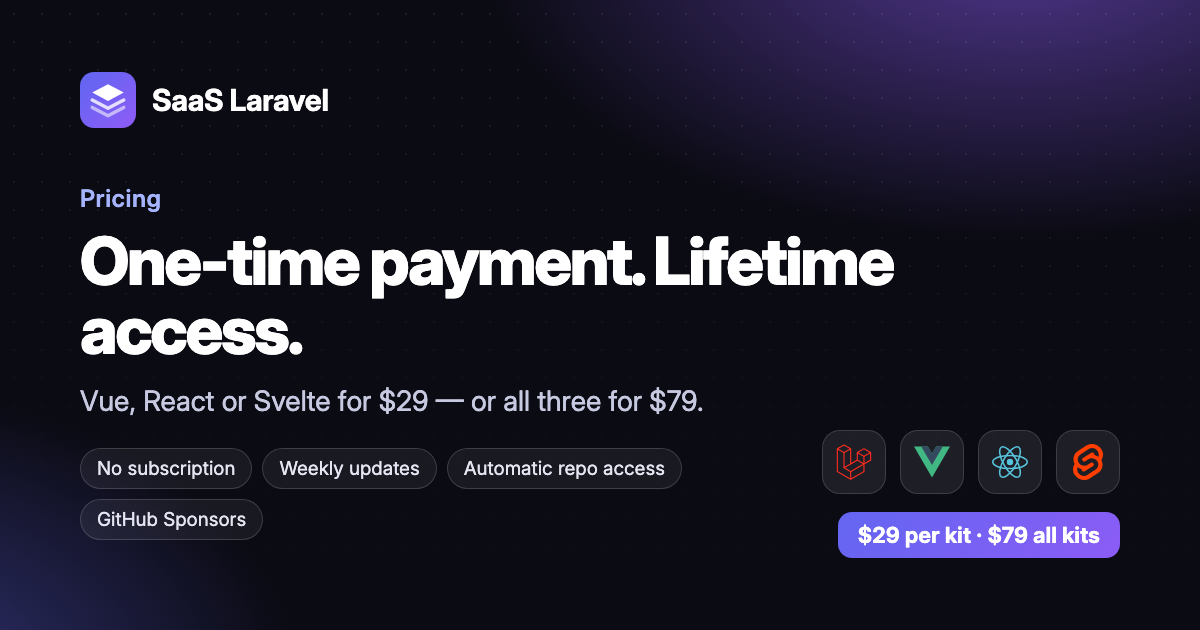
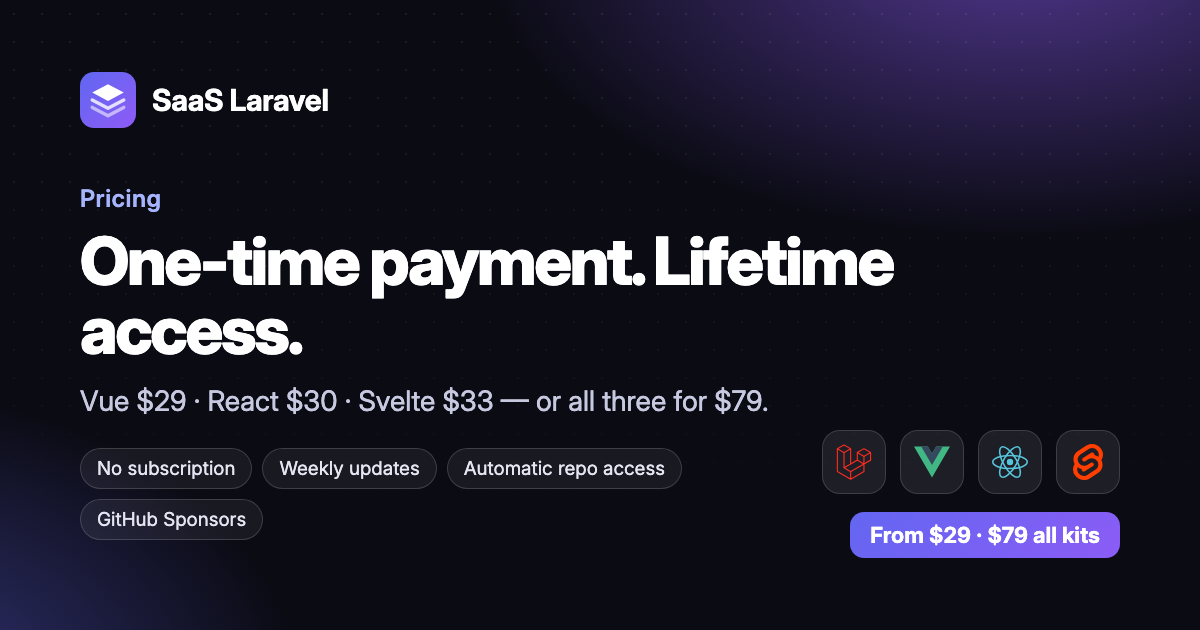
Update starter kit prices to match GitHub Sponsors tiers
Vue $29, React $30, Svelte $33 and all three for $79 (save $13).

Changed region(s): [[0.0925, 0.6032, 0.6475, 0.6635], [0.6783, 0.8143, 0.8017, 0.8746]]

diff --git a/.vitepress/site.ts b/.vitepress/site.ts
@@ -35,6 +35,12 @@ export interface Plan {
 
 const githubOwner = 'https://github.com/erag-technologies';
 
+export const prices = { vue: 29, react: 30, svelte: 33, bundle: 79 } as const;
+
+export const bundleSavings = prices.vue + prices.react + prices.svelte - prices.bundle;
+
+export const kitPriceList = `Vue $${prices.vue}, React $${prices.react} or Svelte $${prices.svelte}`;
+
 export const site = {
   name: 'SaaS Laravel',
   url: 'https://saas-laravel.com',
@@ -45,8 +51,8 @@ export const site = {
   sponsorUrl: 'https://github.com/sponsors/eramitgupta',
   githubProfile: githubOwner,
   docsEditPattern: `${githubOwner}/laravel-saas-starter-kit-docs/edit/main/:path`,
-  bundlePrice: 79,
-  kitPrice: 29,
+  bundlePrice: prices.bundle,
+  kitPriceFrom: Math.min(prices.vue, prices.react, prices.svelte),
   paymentNote: 'One-time payment · Lifetime access · Weekly updates included · No recurring subscription',
   accessNote: 'Lifetime access with weekly updates.',
 };
@@ -70,7 +76,7 @@ export const kits: Record<FrameworkKey, Kit> = {
     key: 'vue',
     name: 'Vue',
     title: 'Vue Starter Kit',
-    price: 29,
+    price: prices.vue,
     repo: `${githubOwner}/saas-laravel-starter-kit-vue`,
     repoName: 'saas-laravel-starter-kit-vue',
     tagline: 'Vue 3.5 with <script setup>, TypeScript and shadcn-vue.',
@@ -97,7 +103,7 @@ export const kits: Record<FrameworkKey, Kit> = {
     key: 'react',
     name: 'React',
     title: 'React Starter Kit',
-    price: 29,
+    price: prices.react,
     repo: `${githubOwner}/saas-laravel-starter-kit-react`,
     repoName: 'saas-laravel-starter-kit-react',
     tagline: 'React 19 with TypeScript and shadcn/ui on Radix UI.',
@@ -124,7 +130,7 @@ export const kits: Record<FrameworkKey, Kit> = {
     key: 'svelte',
     name: 'Svelte',
     title: 'Svelte Starter Kit',
-    price: 29,
+    price: prices.svelte,
     repo: `${githubOwner}/saas-laravel-starter-kit-svelte`,
     repoName: 'saas-laravel-starter-kit-svelte',
     tagline: 'Svelte 5 runes with TypeScript and shadcn-svelte.',
@@ -155,7 +161,7 @@ export const plans: Record<PlanKey, Plan> = {
   vue: {
     key: 'vue',
     name: 'Vue Starter Kit',
-    price: 29,
+    price: prices.vue,
     href: '/pricing/vue.html',
     frameworks: ['vue'],
     tagline: 'Laravel SaaS backend + Vue 3.5 frontend.',
@@ -165,7 +171,7 @@ export const plans: Record<PlanKey, Plan> = {
   react: {
     key: 'react',
     name: 'React Starter Kit',
-    price: 29,
+    price: prices.react,
     href: '/pricing/react.html',
     frameworks: ['react'],
     tagline: 'Laravel SaaS backend + React 19 frontend.',
@@ -175,7 +181,7 @@ export const plans: Record<PlanKey, Plan> = {
   svelte: {
     key: 'svelte',
     name: 'Svelte Starter Kit',
-    price: 29,
+    price: prices.svelte,
     href: '/pricing/svelte.html',
     frameworks: ['svelte'],
     tagline: 'Laravel SaaS backend + Svelte 5 frontend.',
@@ -185,11 +191,11 @@ export const plans: Record<PlanKey, Plan> = {
   'all-kits': {
     key: 'all-kits',
     name: 'All Starter Kits',
-    price: 79,
+    price: prices.bundle,
     href: '/pricing/all-kits.html',
     frameworks: ['vue', 'react', 'svelte'],
     tagline: 'Vue, React and Svelte — the complete collection.',
-    benefits: ['All three starter kits', 'Access to all three kit repositories', 'Save $8 compared to buying separately'],
+    benefits: ['All three starter kits', 'Access to all three kit repositories', `Save $${bundleSavings} compared to buying separately`],
     featured: true,
   },
 };
@@ -349,7 +355,7 @@ export const paymentFaqs: { question: string; answer: string }[] = [
   },
   {
     question: 'Is it a one-time payment?',
-    answer: `Yes. ${formatPrice(site.kitPrice)} for a single kit or ${formatPrice(site.bundlePrice)} for all three kits, paid once through GitHub Sponsors.`,
+    answer: `Yes. ${kitPriceList} for a single kit, or ${formatPrice(site.bundlePrice)} for all three kits, paid once through GitHub Sponsors.`,
   },
   {
     question: 'Do I get lifetime access?',
@@ -370,7 +376,7 @@ export const paymentFaqs: { question: string; answer: string }[] = [
   },
   {
     question: 'Can I buy all three kits?',
-    answer: `Yes. The All Starter Kits bundle includes Vue, React and Svelte for ${formatPrice(site.bundlePrice)} — ${formatPrice(site.kitPrice * 3 - site.bundlePrice)} less than buying them separately.`,
+    answer: `Yes. The All Starter Kits bundle includes Vue, React and Svelte for ${formatPrice(site.bundlePrice)} — ${formatPrice(bundleSavings)} less than buying them separately.`,
   },
   {
     question: 'Where do I get support?',

diff --git a/.vitepress/seo.ts b/.vitepress/seo.ts
@@ -1,7 +1,7 @@
 import { readFile, stat, writeFile } from 'node:fs/promises';
 import { join } from 'node:path';
 import type { DefaultTheme, HeadConfig, PageData } from 'vitepress';
-import { frameworkKeys, kits, paymentFaqs, plans, site, type FrameworkKey, type PlanKey } from './site';
+import { frameworkKeys, kitPriceList, kits, paymentFaqs, plans, site, type FrameworkKey, type PlanKey } from './site';
 
 type JsonLd = Record<string, unknown>;
 
@@ -322,7 +322,7 @@ export const writeLlmsFiles = async (srcDir: string, outDir: string, docsSidebar
     '',
     `> ${site.description}`,
     '',
-    `${site.name} sells three Laravel SaaS starter kits that share one Laravel 13 backend: Vue 3.5, React 19 or Svelte 5 with Inertia v3, TypeScript, Tailwind CSS v4 and shadcn components. Each kit costs $${site.kitPrice} and all three cost $${site.bundlePrice}, as a one-time payment through GitHub Sponsors with lifetime access and weekly updates. Repository access is granted automatically after payment.`,
+    `${site.name} sells three Laravel SaaS starter kits that share one Laravel 13 backend: Vue 3.5, React 19 or Svelte 5 with Inertia v3, TypeScript, Tailwind CSS v4 and shadcn components. The kits cost ${kitPriceList}, and all three cost $${site.bundlePrice}, as a one-time payment through GitHub Sponsors with lifetime access and weekly updates. Repository access is granted automatically after payment.`,
     '',
     'Key features: database-per-tenant multi-tenancy (stancl/tenancy), subdomain identification, per-domain app name, language and auth features, Laravel Fortify authentication with two-factor and passkeys, Spatie roles and permissions, queued user invitations, global maintenance mode and workspace suspension, 17 languages, database-driven menus, sidebar or header layouts, Pest tests, Larastan, Pint and Laravel Boost.',
     '',

diff --git a/.vitepress/theme/components/HowToPay.vue b/.vitepress/theme/components/HowToPay.vue
@@ -1,12 +1,12 @@
 <script setup lang="ts">
-import { formatPrice, paymentFaqs, site } from '../../site';
+import { formatPrice, kitPriceList, paymentFaqs, site } from '../../site';
 import FaqList from './FaqList.vue';
 import SectionHeading from './SectionHeading.vue';
 
 const steps: { title: string; text: string; link?: { text: string; href: string } }[] = [
   {
     title: 'Choose your plan',
-    text: `Pick a single kit — Vue, React or Svelte for ${formatPrice(site.kitPrice)} — or All Starter Kits for ${formatPrice(site.bundlePrice)}.`,
+    text: `Pick a single kit — ${kitPriceList} — or All Starter Kits for ${formatPrice(site.bundlePrice)}.`,
     link: { text: 'Compare plans', href: '/pricing.html' },
   },
   {

diff --git a/pricing/svelte.md b/pricing/svelte.md
@@ -1,6 +1,6 @@
 ---
-title: "Svelte Starter Kit Pricing ($29 One-Time)"
-description: "Get the Laravel Svelte SaaS starter kit for a one-time $29 payment: full source code, lifetime repository access and weekly updates. No recurring subscription."
+title: "Svelte Starter Kit Pricing ($33 One-Time)"
+description: "Get the Laravel Svelte SaaS starter kit for a one-time $33 payment: full source code, lifetime repository access and weekly updates. No recurring subscription."
 layout: page
 sidebar: false
 aside: false
@@ -14,19 +14,19 @@ head:
       href: https://saas-laravel.com/pricing/svelte.html
   - - meta
     - property: og:title
-      content: "Svelte Starter Kit Pricing ($29 One-Time)"
+      content: "Svelte Starter Kit Pricing ($33 One-Time)"
   - - meta
     - property: og:description
-      content: "Get the Laravel Svelte SaaS starter kit for a one-time $29 payment: full source code, lifetime repository access and weekly updates. No recurring subscription."
+      content: "Get the Laravel Svelte SaaS starter kit for a one-time $33 payment: full source code, lifetime repository access and weekly updates. No recurring subscription."
   - - meta
     - property: og:url
       content: https://saas-laravel.com/pricing/svelte.html
   - - meta
     - name: twitter:title
-      content: "Svelte Starter Kit Pricing ($29 One-Time)"
+      content: "Svelte Starter Kit Pricing ($33 One-Time)"
   - - meta
     - name: twitter:description
-      content: "Get the Laravel Svelte SaaS starter kit for a one-time $29 payment: full source code, lifetime repository access and weekly updates. No recurring subscription."
+      content: "Get the Laravel Svelte SaaS starter kit for a one-time $33 payment: full source code, lifetime repository access and weekly updates. No recurring subscription."
 ---
 
 <PricingDetail plan="svelte" />

diff --git a/pricing/react.md b/pricing/react.md
@@ -1,6 +1,6 @@
 ---
-title: "React Starter Kit Pricing ($29 One-Time)"
-description: "Get the Laravel React SaaS starter kit for a one-time $29 payment: full source code, lifetime repository access and weekly updates. No recurring subscription."
+title: "React Starter Kit Pricing ($30 One-Time)"
+description: "Get the Laravel React SaaS starter kit for a one-time $30 payment: full source code, lifetime repository access and weekly updates. No recurring subscription."
 layout: page
 sidebar: false
 aside: false
@@ -14,19 +14,19 @@ head:
       href: https://saas-laravel.com/pricing/react.html
   - - meta
     - property: og:title
-      content: "React Starter Kit Pricing ($29 One-Time)"
+      content: "React Starter Kit Pricing ($30 One-Time)"
   - - meta
     - property: og:description
-      content: "Get the Laravel React SaaS starter kit for a one-time $29 payment: full source code, lifetime repository access and weekly updates. No recurring subscription."
+      content: "Get the Laravel React SaaS starter kit for a one-time $30 payment: full source code, lifetime repository access and weekly updates. No recurring subscription."
   - - meta
     - property: og:url
       content: https://saas-laravel.com/pricing/react.html
   - - meta
     - name: twitter:title
-      content: "React Starter Kit Pricing ($29 One-Time)"
+      content: "React Starter Kit Pricing ($30 One-Time)"
   - - meta
     - name: twitter:description
-      content: "Get the Laravel React SaaS starter kit for a one-time $29 payment: full source code, lifetime repository access and weekly updates. No recurring subscription."
+      content: "Get the Laravel React SaaS starter kit for a one-time $30 payment: full source code, lifetime repository access and weekly updates. No recurring subscription."
 ---
 
 <PricingDetail plan="react" />

diff --git a/kits/svelte.md b/kits/svelte.md
@@ -1,6 +1,6 @@
 ---
 title: "Laravel Svelte SaaS Starter Kit"
-description: "Laravel SaaS starter kit with Svelte 5, Inertia v3 and TypeScript: database-per-tenant multi-tenancy, auth, roles and permissions. $29 one-time, weekly updates."
+description: "Laravel SaaS starter kit with Svelte 5, Inertia v3 and TypeScript: database-per-tenant multi-tenancy, auth, roles and permissions. $33 one-time, weekly updates."
 layout: page
 sidebar: false
 aside: false
@@ -17,7 +17,7 @@ head:
       content: "Laravel Svelte SaaS Starter Kit"
   - - meta
     - property: og:description
-      content: "Laravel SaaS starter kit with Svelte 5, Inertia v3 and TypeScript: database-per-tenant multi-tenancy, auth, roles and permissions. $29 one-time, weekly updates."
+      content: "Laravel SaaS starter kit with Svelte 5, Inertia v3 and TypeScript: database-per-tenant multi-tenancy, auth, roles and permissions. $33 one-time, weekly updates."
   - - meta
     - property: og:url
       content: https://saas-laravel.com/kits/svelte.html
@@ -26,7 +26,7 @@ head:
       content: "Laravel Svelte SaaS Starter Kit"
   - - meta
     - name: twitter:description
-      content: "Laravel SaaS starter kit with Svelte 5, Inertia v3 and TypeScript: database-per-tenant multi-tenancy, auth, roles and permissions. $29 one-time, weekly updates."
+      content: "Laravel SaaS starter kit with Svelte 5, Inertia v3 and TypeScript: database-per-tenant multi-tenancy, auth, roles and permissions. $33 one-time, weekly updates."
 ---
 
 <KitDetail framework="svelte" />

diff --git a/kits/react.md b/kits/react.md
@@ -1,6 +1,6 @@
 ---
 title: "Laravel React SaaS Starter Kit"
-description: "Laravel SaaS starter kit with React 19, Inertia v3 and TypeScript: database-per-tenant multi-tenancy, auth, roles and permissions. $29 one-time, weekly updates."
+description: "Laravel SaaS starter kit with React 19, Inertia v3 and TypeScript: database-per-tenant multi-tenancy, auth, roles and permissions. $30 one-time, weekly updates."
 layout: page
 sidebar: false
 aside: false
@@ -17,7 +17,7 @@ head:
       content: "Laravel React SaaS Starter Kit"
   - - meta
     - property: og:description
-      content: "Laravel SaaS starter kit with React 19, Inertia v3 and TypeScript: database-per-tenant multi-tenancy, auth, roles and permissions. $29 one-time, weekly updates."
+      content: "Laravel SaaS starter kit with React 19, Inertia v3 and TypeScript: database-per-tenant multi-tenancy, auth, roles and permissions. $30 one-time, weekly updates."
   - - meta
     - property: og:url
       content: https://saas-laravel.com/kits/react.html
@@ -26,7 +26,7 @@ head:
       content: "Laravel React SaaS Starter Kit"
   - - meta
     - name: twitter:description
-      content: "Laravel SaaS starter kit with React 19, Inertia v3 and TypeScript: database-per-tenant multi-tenancy, auth, roles and permissions. $29 one-time, weekly updates."
+      content: "Laravel SaaS starter kit with React 19, Inertia v3 and TypeScript: database-per-tenant multi-tenancy, auth, roles and permissions. $30 one-time, weekly updates."
 ---
 
 <KitDetail framework="react" />

diff --git a/pricing/all-kits.md b/pricing/all-kits.md
@@ -1,6 +1,6 @@
 ---
 title: "All Laravel Starter Kits Bundle ($79)"
-description: "Get the Vue, React and Svelte Laravel SaaS starter kits together for a one-time $79. Lifetime access to all three repositories plus weekly updates."
+description: "Get the Vue, React and Svelte Laravel SaaS starter kits together for a one-time $79 and save $13. Lifetime access to all three repositories and weekly updates."
 layout: page
 sidebar: false
 aside: false
@@ -17,7 +17,7 @@ head:
       content: "All Laravel Starter Kits Bundle ($79)"
   - - meta
     - property: og:description
-      content: "Get the Vue, React and Svelte Laravel SaaS starter kits together for a one-time $79. Lifetime access to all three repositories plus weekly updates."
+      content: "Get the Vue, React and Svelte Laravel SaaS starter kits together for a one-time $79 and save $13. Lifetime access to all three repositories and weekly updates."
   - - meta
     - property: og:url
       content: https://saas-laravel.com/pricing/all-kits.html
@@ -26,7 +26,7 @@ head:
       content: "All Laravel Starter Kits Bundle ($79)"
   - - meta
     - name: twitter:description
-      content: "Get the Vue, React and Svelte Laravel SaaS starter kits together for a one-time $79. Lifetime access to all three repositories plus weekly updates."
+      content: "Get the Vue, React and Svelte Laravel SaaS starter kits together for a one-time $79 and save $13. Lifetime access to all three repositories and weekly updates."
 ---
 
 <PricingDetail plan="all-kits" />

diff --git a/pricing.md b/pricing.md
@@ -1,6 +1,6 @@
 ---
 title: "Laravel SaaS Starter Kit Pricing"
-description: "Buy the Vue, React or Svelte Laravel SaaS starter kit for $29, or all three for $79. One-time payment with lifetime access and weekly updates, no subscription."
+description: "Laravel SaaS starter kits: Vue $29, React $30 or Svelte $33, or all three for $79. One-time payment with lifetime access and weekly updates, no subscription."
 layout: page
 sidebar: false
 aside: false
@@ -17,7 +17,7 @@ head:
       content: "Laravel SaaS Starter Kit Pricing"
   - - meta
     - property: og:description
-      content: "Buy the Vue, React or Svelte Laravel SaaS starter kit for $29, or all three for $79. One-time payment with lifetime access and weekly updates, no subscription."
+      content: "Laravel SaaS starter kits: Vue $29, React $30 or Svelte $33, or all three for $79. One-time payment with lifetime access and weekly updates, no subscription."
   - - meta
     - property: og:url
       content: https://saas-laravel.com/pricing.html
@@ -26,7 +26,7 @@ head:
       content: "Laravel SaaS Starter Kit Pricing"
   - - meta
     - name: twitter:description
-      content: "Buy the Vue, React or Svelte Laravel SaaS starter kit for $29, or all three for $79. One-time payment with lifetime access and weekly updates, no subscription."
+      content: "Laravel SaaS starter kits: Vue $29, React $30 or Svelte $33, or all three for $79. One-time payment with lifetime access and weekly updates, no subscription."
 ---
 
 <PricingSection primary />

diff --git a/README.md b/README.md
@@ -20,7 +20,7 @@ Source of [saas-laravel.com](https://saas-laravel.com): the product website and 
 | Frontend | Vue 3.5, React 19 or Svelte 5 with TypeScript, Tailwind CSS v4 and shadcn components |
 | Quality | Pest, Larastan, Pint, ESLint, Prettier and Laravel Boost |
 
-Each kit is **$29**, or **$79** for all three — a one-time payment with lifetime access and weekly updates.
+Vue is **$29**, React **$30** and Svelte **$33**, or **$79** for all three (save $13) — a one-time payment with lifetime access and weekly updates.
 
 ## Tech stack
 

diff --git a/docs/reference/faq.md b/docs/reference/faq.md
@@ -70,7 +70,7 @@ No, but it is the easiest option because tenant subdomains (`*.vue.test`) work a
 
 ### How much does it cost?
 
-Each kit is $29 and the All Starter Kits bundle (Vue + React + Svelte) is $79. Both are one-time payments with lifetime access. See [Pricing](/pricing).
+The Vue kit is $29, the React kit $30 and the Svelte kit $33. The All Starter Kits bundle (Vue + React + Svelte) is $79, which saves $13. All are one-time payments with lifetime access. See [Pricing](/pricing).
 
 ### Is it a subscription?
 
